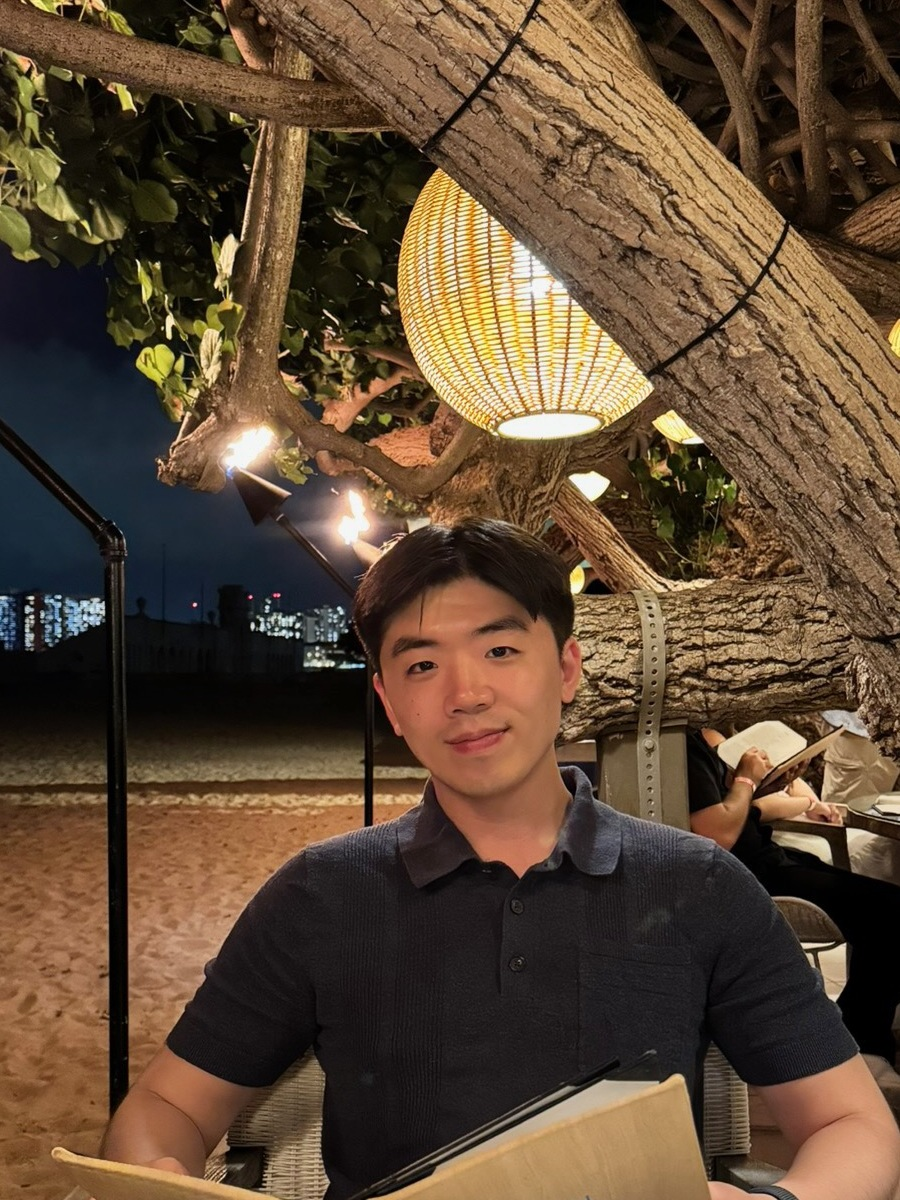
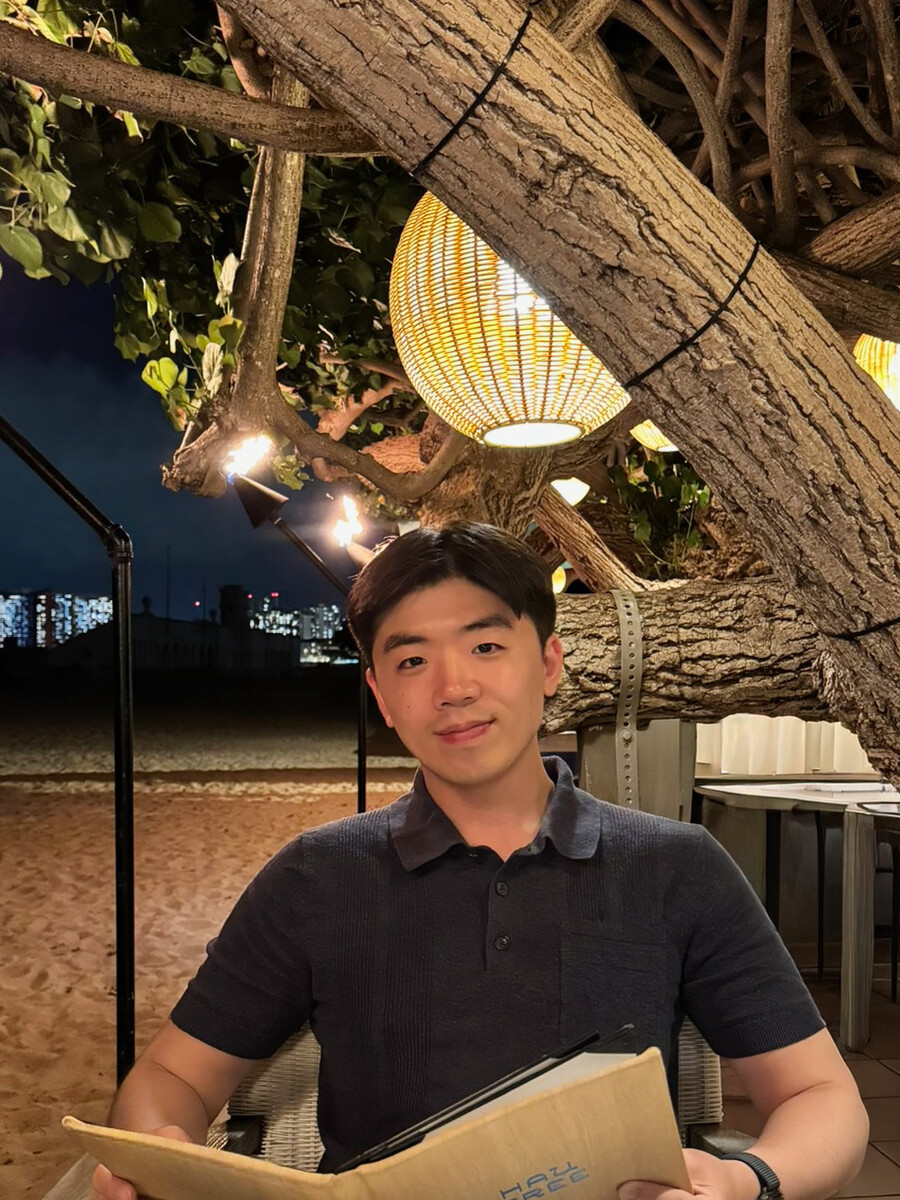
About: new profile photo and workshop news in past tense

diff --git a/_news/announcement_15.md b/_news/announcement_15.md
@@ -5,4 +5,4 @@ inline: true
 related_posts: false
 ---
 
-Helping organize the **"Best Practices for Developing Autonomous Materials Instrumentation"** workshop, a joint NIST and Johns Hopkins University event, August 11–12, 2026 ([details](https://ai.jhu.edu/event/best-practices-for-developing-autonomous-materials-instrumentation-workshop/)).
+Helped organize the **"Best Practices for Developing Autonomous Materials Instrumentation"** workshop, a joint NIST and Johns Hopkins University event, August 11–12, 2026 ([details](https://ai.jhu.edu/event/best-practices-for-developing-autonomous-materials-instrumentation-workshop/)).
